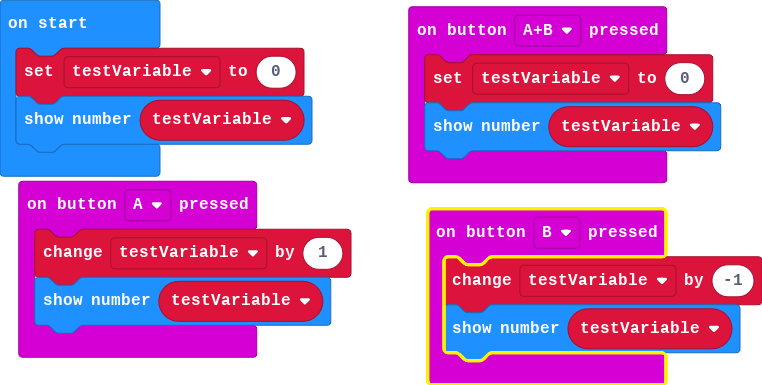
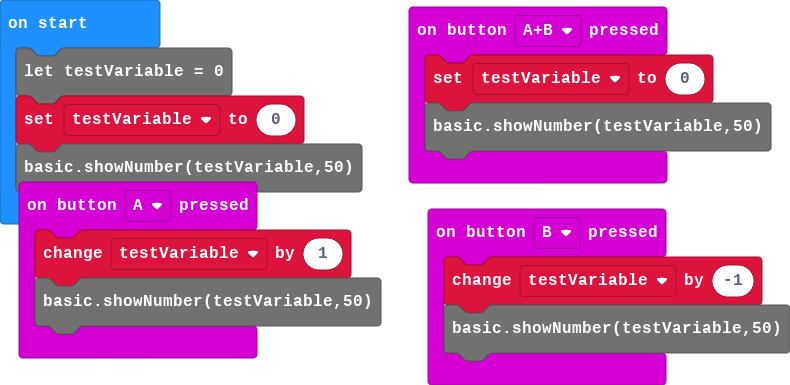
Update main.blocks, main.ts

diff --git a/main.ts b/main.ts
@@ -1,15 +1,15 @@
 input.onButtonPressed(Button.A, function () {
     testVariable += 1
-    basic.showNumber(testVariable)
+    basic.showNumber(testVariable,50)
 })
 input.onButtonPressed(Button.AB, function () {
     testVariable = 0
-    basic.showNumber(testVariable)
+    basic.showNumber(testVariable,50)
 })
 input.onButtonPressed(Button.B, function () {
     testVariable += -1
-    basic.showNumber(testVariable)
+    basic.showNumber(testVariable,50)
 })
 let testVariable = 0
 testVariable = 0
-basic.showNumber(testVariable)
+basic.showNumber(testVariable,50)
